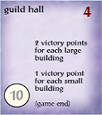
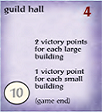
Click Work
Worked towards handling click events

diff --git a/classes.py b/classes.py
@@ -32,6 +32,9 @@ class RoleCard(pygame.sprite.Sprite):
 		self.rect.center = (self.gs.width/2, self.gs.height/2)
 		self.doubloons = 0
 
+	def is_clicked(self):
+		return pygame.mouse.get_pressed()[0] and self.rect.collidepoint(pygame.mouse.get_pos())
+
 class CargoShip(pygame.sprite.Sprite):
 	def __init__(self, numSpaces, size, gs=None):
 		pygame.sprite.Sprite.__init__(self)
@@ -119,6 +122,9 @@ class SmallIndigoPlant(pygame.sprite.Sprite):
 		self.rect = self.image.get_rect()
 		self.rect.center = ((99/320)*self.gs.width, (11/112)*self.gs.height)
 
+	def is_clicked(self):
+		return pygame.mouse.get_pressed()[0] and self.rect.collidepoint(pygame.mouse.get_pos())
+
 class SmallSugarMill(pygame.sprite.Sprite):
 	def __init__(self, gs=None):
 		pygame.sprite.Sprite.__init__(self)
@@ -127,6 +133,9 @@ class SmallSugarMill(pygame.sprite.Sprite):
 		self.image = pygame.image.load("assets\\small_sugar_mill.png")
 		self.rect = self.image.get_rect()
 		self.rect.center = ((99/320)*self.gs.width, (21/112)*self.gs.height)
+
+	def is_clicked(self):
+		return pygame.mouse.get_pressed()[0] and self.rect.collidepoint(pygame.mouse.get_pos())
 
 class SmallMarket(pygame.sprite.Sprite):
 	def __init__(self, gs=None):
@@ -137,6 +146,9 @@ class SmallMarket(pygame.sprite.Sprite):
 		self.rect = self.image.get_rect()
 		self.rect.center = ((99/320)*self.gs.width, (31/112)*self.gs.height)
 
+	def is_clicked(self):
+		return pygame.mouse.get_pressed()[0] and self.rect.collidepoint(pygame.mouse.get_pos())
+
 class Hacienda(pygame.sprite.Sprite):
 	def __init__(self, gs=None):
 		pygame.sprite.Sprite.__init__(self)
@@ -145,6 +157,9 @@ class Hacienda(pygame.sprite.Sprite):
 		self.image = pygame.image.load("assets\\hacienda.png")
 		self.rect = self.image.get_rect()
 		self.rect.center = ((99/320)*self.gs.width, (41/112)*self.gs.height)
+
+	def is_clicked(self):
+		return pygame.mouse.get_pressed()[0] and self.rect.collidepoint(pygame.mouse.get_pos())
 
 class ConstructionHut(pygame.sprite.Sprite):
 	def __init__(self, gs=None):
@@ -155,6 +170,9 @@ class ConstructionHut(pygame.sprite.Sprite):
 		self.rect = self.image.get_rect()
 		self.rect.center = ((99/320)*self.gs.width, (51/112)*self.gs.height)
 
+	def is_clicked(self):
+		return pygame.mouse.get_pressed()[0] and self.rect.collidepoint(pygame.mouse.get_pos())
+
 class SmallWarehouse(pygame.sprite.Sprite):
 	def __init__(self, gs=None):
 		pygame.sprite.Sprite.__init__(self)
@@ -163,6 +181,9 @@ class SmallWarehouse(pygame.sprite.Sprite):
 		self.image = pygame.image.load("assets\\small_warehouse.png")
 		self.rect = self.image.get_rect()
 		self.rect.center = ((99/320)*self.gs.width, (61/112)*self.gs.height)
+
+	def is_clicked(self):
+		return pygame.mouse.get_pressed()[0] and self.rect.collidepoint(pygame.mouse.get_pos())
 
 class IndigoPlant(pygame.sprite.Sprite):
 	def __init__(self, gs=None):
@@ -173,6 +194,9 @@ class IndigoPlant(pygame.sprite.Sprite):
 		self.rect = self.image.get_rect()
 		self.rect.center = ((259/640)*self.gs.width, (11/112)*self.gs.height)
 
+	def is_clicked(self):
+		return pygame.mouse.get_pressed()[0] and self.rect.collidepoint(pygame.mouse.get_pos())
+
 class SugarMill(pygame.sprite.Sprite):
 	def __init__(self, gs=None):
 		pygame.sprite.Sprite.__init__(self)
@@ -181,6 +205,9 @@ class SugarMill(pygame.sprite.Sprite):
 		self.image = pygame.image.load("assets\\sugar_mill.png")
 		self.rect = self.image.get_rect()
 		self.rect.center = ((259/640)*self.gs.width, (21/112)*self.gs.height)
+
+	def is_clicked(self):
+		return pygame.mouse.get_pressed()[0] and self.rect.collidepoint(pygame.mouse.get_pos())
 
 class Hospice(pygame.sprite.Sprite):
 	def __init__(self, gs=None):
@@ -191,6 +218,9 @@ class Hospice(pygame.sprite.Sprite):
 		self.rect = self.image.get_rect()
 		self.rect.center = ((259/640)*self.gs.width, (31/112)*self.gs.height)
 
+	def is_clicked(self):
+		return pygame.mouse.get_pressed()[0] and self.rect.collidepoint(pygame.mouse.get_pos())
+
 class Office(pygame.sprite.Sprite):
 	def __init__(self, gs=None):
 		pygame.sprite.Sprite.__init__(self)
@@ -199,6 +229,9 @@ class Office(pygame.sprite.Sprite):
 		self.image = pygame.image.load("assets\\office.png")
 		self.rect = self.image.get_rect()
 		self.rect.center = ((259/640)*self.gs.width, (41/112)*self.gs.height)
+
+	def is_clicked(self):
+		return pygame.mouse.get_pressed()[0] and self.rect.collidepoint(pygame.mouse.get_pos())
 
 class LargeMarket(pygame.sprite.Sprite):
 	def __init__(self, gs=None):
@@ -209,6 +242,9 @@ class LargeMarket(pygame.sprite.Sprite):
 		self.rect = self.image.get_rect()
 		self.rect.center = ((259/640)*self.gs.width, (51/112)*self.gs.height)
 
+	def is_clicked(self):
+		return pygame.mouse.get_pressed()[0] and self.rect.collidepoint(pygame.mouse.get_pos())
+
 class LargeWarehouse(pygame.sprite.Sprite):
 	def __init__(self, gs=None):
 		pygame.sprite.Sprite.__init__(self)
@@ -217,6 +253,9 @@ class LargeWarehouse(pygame.sprite.Sprite):
 		self.image = pygame.image.load("assets\\large_warehouse.png")
 		self.rect = self.image.get_rect()
 		self.rect.center = ((259/640)*self.gs.width, (61/112)*self.gs.height)
+
+	def is_clicked(self):
+		return pygame.mouse.get_pressed()[0] and self.rect.collidepoint(pygame.mouse.get_pos())
 
 class TobaccoStorage(pygame.sprite.Sprite):
 	def __init__(self, gs=None):
@@ -227,6 +266,9 @@ class TobaccoStorage(pygame.sprite.Sprite):
 		self.rect = self.image.get_rect()
 		self.rect.center = (self.gs.width/2, (11/112)*self.gs.height)
 
+	def is_clicked(self):
+		return pygame.mouse.get_pressed()[0] and self.rect.collidepoint(pygame.mouse.get_pos())
+
 class CoffeeRoaster(pygame.sprite.Sprite):
 	def __init__(self, gs=None):
 		pygame.sprite.Sprite.__init__(self)
@@ -235,6 +277,9 @@ class CoffeeRoaster(pygame.sprite.Sprite):
 		self.image = pygame.image.load("assets\\coffee_roaster.png")
 		self.rect = self.image.get_rect()
 		self.rect.center = (self.gs.width/2, (21/112)*self.gs.height)
+
+	def is_clicked(self):
+		return pygame.mouse.get_pressed()[0] and self.rect.collidepoint(pygame.mouse.get_pos())
 
 class University(pygame.sprite.Sprite):
 	def __init__(self, gs=None):
@@ -245,6 +290,9 @@ class University(pygame.sprite.Sprite):
 		self.rect = self.image.get_rect()
 		self.rect.center = (self.gs.width/2, (31/112)*self.gs.height)
 
+	def is_clicked(self):
+		return pygame.mouse.get_pressed()[0] and self.rect.collidepoint(pygame.mouse.get_pos())
+
 class Factory(pygame.sprite.Sprite):
 	def __init__(self, gs=None):
 		pygame.sprite.Sprite.__init__(self)
@@ -253,6 +301,9 @@ class Factory(pygame.sprite.Sprite):
 		self.image = pygame.image.load("assets\\factory.png")
 		self.rect = self.image.get_rect()
 		self.rect.center = (self.gs.width/2, (41/112)*self.gs.height)
+
+	def is_clicked(self):
+		return pygame.mouse.get_pressed()[0] and self.rect.collidepoint(pygame.mouse.get_pos())
 
 class Harbor(pygame.sprite.Sprite):
 	def __init__(self, gs=None):
@@ -263,6 +314,9 @@ class Harbor(pygame.sprite.Sprite):
 		self.rect = self.image.get_rect()
 		self.rect.center = (self.gs.width/2, (51/112)*self.gs.height)
 
+	def is_clicked(self):
+		return pygame.mouse.get_pressed()[0] and self.rect.collidepoint(pygame.mouse.get_pos())
+
 class Wharf(pygame.sprite.Sprite):
 	def __init__(self, gs=None):
 		pygame.sprite.Sprite.__init__(self)
@@ -272,6 +326,9 @@ class Wharf(pygame.sprite.Sprite):
 		self.rect = self.image.get_rect()
 		self.rect.center = (self.gs.width/2, (61/112)*self.gs.height)
 
+	def is_clicked(self):
+		return pygame.mouse.get_pressed()[0] and self.rect.collidepoint(pygame.mouse.get_pos())
+
 class GuildHall(pygame.sprite.Sprite):
 	def __init__(self, gs=None):
 		pygame.sprite.Sprite.__init__(self)
@@ -279,7 +336,10 @@ class GuildHall(pygame.sprite.Sprite):
 		self.gs = gs
 		self.image = pygame.image.load("assets\\guild_hall.png")
 		self.rect = self.image.get_rect()
-		self.rect.center = (self.gs.width, (16/112)*self.gs.height)
+		self.rect.center = ((59.5/100)*self.gs.width, (15.25/112)*self.gs.height)
+
+	def is_clicked(self):
+		return pygame.mouse.get_pressed()[0] and self.rect.collidepoint(pygame.mouse.get_pos())
 
 class Residence(pygame.sprite.Sprite):
 	def __init__(self, gs=None):
@@ -288,7 +348,10 @@ class Residence(pygame.sprite.Sprite):
 		self.gs = gs
 		self.image = pygame.image.load("assets\\residence.png")
 		self.rect = self.image.get_rect()
-		self.rect.center = (self.gs.width, (31/112)*self.gs.height)
+		self.rect.center = ((6.85/10)*self.gs.width, (15.25/112)*self.gs.height)
+
+	def is_clicked(self):
+		return pygame.mouse.get_pressed()[0] and self.rect.collidepoint(pygame.mouse.get_pos())
 
 class Fortress(pygame.sprite.Sprite):
 	def __init__(self, gs=None):
@@ -297,7 +360,10 @@ class Fortress(pygame.sprite.Sprite):
 		self.gs = gs
 		self.image = pygame.image.load("assets\\fortress.png")
 		self.rect = self.image.get_rect()
-		self.rect.center = (self.gs.width, (46/112)*self.gs.height)
+		self.rect.center = ((59.5/100)*self.gs.width, (35.25/112)*self.gs.height)
+
+	def is_clicked(self):
+		return pygame.mouse.get_pressed()[0] and self.rect.collidepoint(pygame.mouse.get_pos())
 
 class CustomsHouse(pygame.sprite.Sprite):
 	def __init__(self, gs=None):
@@ -306,7 +372,10 @@ class CustomsHouse(pygame.sprite.Sprite):
 		self.gs = gs
 		self.image = pygame.image.load("assets\\customs_house.png")
 		self.rect = self.image.get_rect()
-		self.rect.center = (self.gs.width, (61/112)*self.gs.height)
+		self.rect.center = ((6.85/10)*self.gs.width, (35.25/112)*self.gs.height)
+
+	def is_clicked(self):
+		return pygame.mouse.get_pressed()[0] and self.rect.collidepoint(pygame.mouse.get_pos())
 
 class CityHall(pygame.sprite.Sprite):
 	def __init__(self, gs=None):
@@ -315,4 +384,7 @@ class CityHall(pygame.sprite.Sprite):
 		self.gs = gs
 		self.image = pygame.image.load("assets\\city_hall.png")
 		self.rect = self.image.get_rect()
-		self.rect.center = (self.gs.width, (76/112)*self.gs.height)
+		self.rect.center = ((64/100)*self.gs.width, (55.25/112)*self.gs.height)
+
+	def is_clicked(self):
+		return pygame.mouse.get_pressed()[0] and self.rect.collidepoint(pygame.mouse.get_pos())

diff --git a/puertorico.py b/puertorico.py
@@ -78,38 +78,74 @@ class GameSpace:
 		self.numTobaccoPlants = 9
 		self.numCoffeePlants = 8
 
+		sprite_list = []
+
+		# Sprites that won't be clicked
 		self.colonistship = ColonistShip(self.numPlayers, self)
 		self.tradinghouse = TradingHouse(self)
-		self.settler = RoleCard("settler", self)
-		self.mayor = RoleCard("mayor", self)
-		self.builder = RoleCard("builder", self)
-		self.craftsman = RoleCard("craftsman", self)
-		self.trader = RoleCard("trader", self)
-		self.captain = RoleCard("captain", self)
 		self.buildingboard = BuildingBoard(self)
+
+		# Sprites that will be clicked
+		self.settler = RoleCard("settler", self)
+		sprite_list.append(self.settler)
+		self.mayor = RoleCard("mayor", self)
+		sprite_list.append(self.mayor)
+		self.builder = RoleCard("builder", self)
+		sprite_list.append(self.builder)
+		self.craftsman = RoleCard("craftsman", self)
+		sprite_list.append(self.craftsman)
+		self.trader = RoleCard("trader", self)
+		sprite_list.append(self.trader)
+		self.captain = RoleCard("captain", self)
+		sprite_list.append(self.captain)
 		self.smallindigoplant = SmallIndigoPlant(self)
+		sprite_list.append(self.smallindigoplant)
 		self.smallsugarmill = SmallSugarMill(self)
+		sprite_list.append(self.smallsugarmill)
 		self.smallmarket = SmallMarket(self)
+		sprite_list.append(self.smallmarket)
 		self.hacienda = Hacienda(self)
+		sprite_list.append(self.hacienda)
 		self.constructionhut = ConstructionHut(self)
+		sprite_list.append(self.constructionhut)
 		self.smallwarehouse = SmallWarehouse(self)
+		sprite_list.append(self.smallwarehouse)
 		self.indigoplant = IndigoPlant(self)
+		sprite_list.append(self.indigoplant)
 		self.sugarmill = SugarMill(self)
+		sprite_list.append(self.sugarmill)
 		self.hospice = Hospice(self)
+		sprite_list.append(self.hospice)
 		self.office = Office(self)
+		sprite_list.append(self.office)
 		self.largemarket = LargeMarket(self)
+		sprite_list.append(self.largemarket)
 		self.largewarehouse = LargeWarehouse(self)
+		sprite_list.append(self.largewarehouse)
 		self.tobaccostorage = TobaccoStorage(self)
+		sprite_list.append(self.tobaccostorage)
 		self.coffeeroaster = CoffeeRoaster(self)
+		sprite_list.append(self.coffeeroaster)
 		self.university = University(self)
+		sprite_list.append(self.university)
 		self.factory = Factory(self)
+		sprite_list.append(self.factory)
 		self.harbor = Harbor(self)
+		sprite_list.append(self.harbor)
 		self.wharf = Wharf(self)
+		sprite_list.append(self.wharf)
 		self.guildhall = GuildHall(self)
+		sprite_list.append(self.guildhall)
 		self.residence = Residence(self)
+		sprite_list.append(self.residence)
 		self.fortress = Fortress(self)
+		sprite_list.append(self.fortress)
 		self.customshouse = CustomsHouse(self)
+		sprite_list.append(self.customshouse)
 		self.cityhall = CityHall(self)
+		sprite_list.append(self.cityhall)
+
+		print(len(sprite_list))
 
 		if self.numPlayers == 3:
 			self.vpoints = 75
@@ -156,6 +192,8 @@ class GameSpace:
 				elif event.type == KEYDOWN:
 					if event.key == pygame.K_q:
 						sys.exit()
+				elif event.type == MOUSEBUTTONUP:
+					print("clicked")
 
 			# tick objects
 
